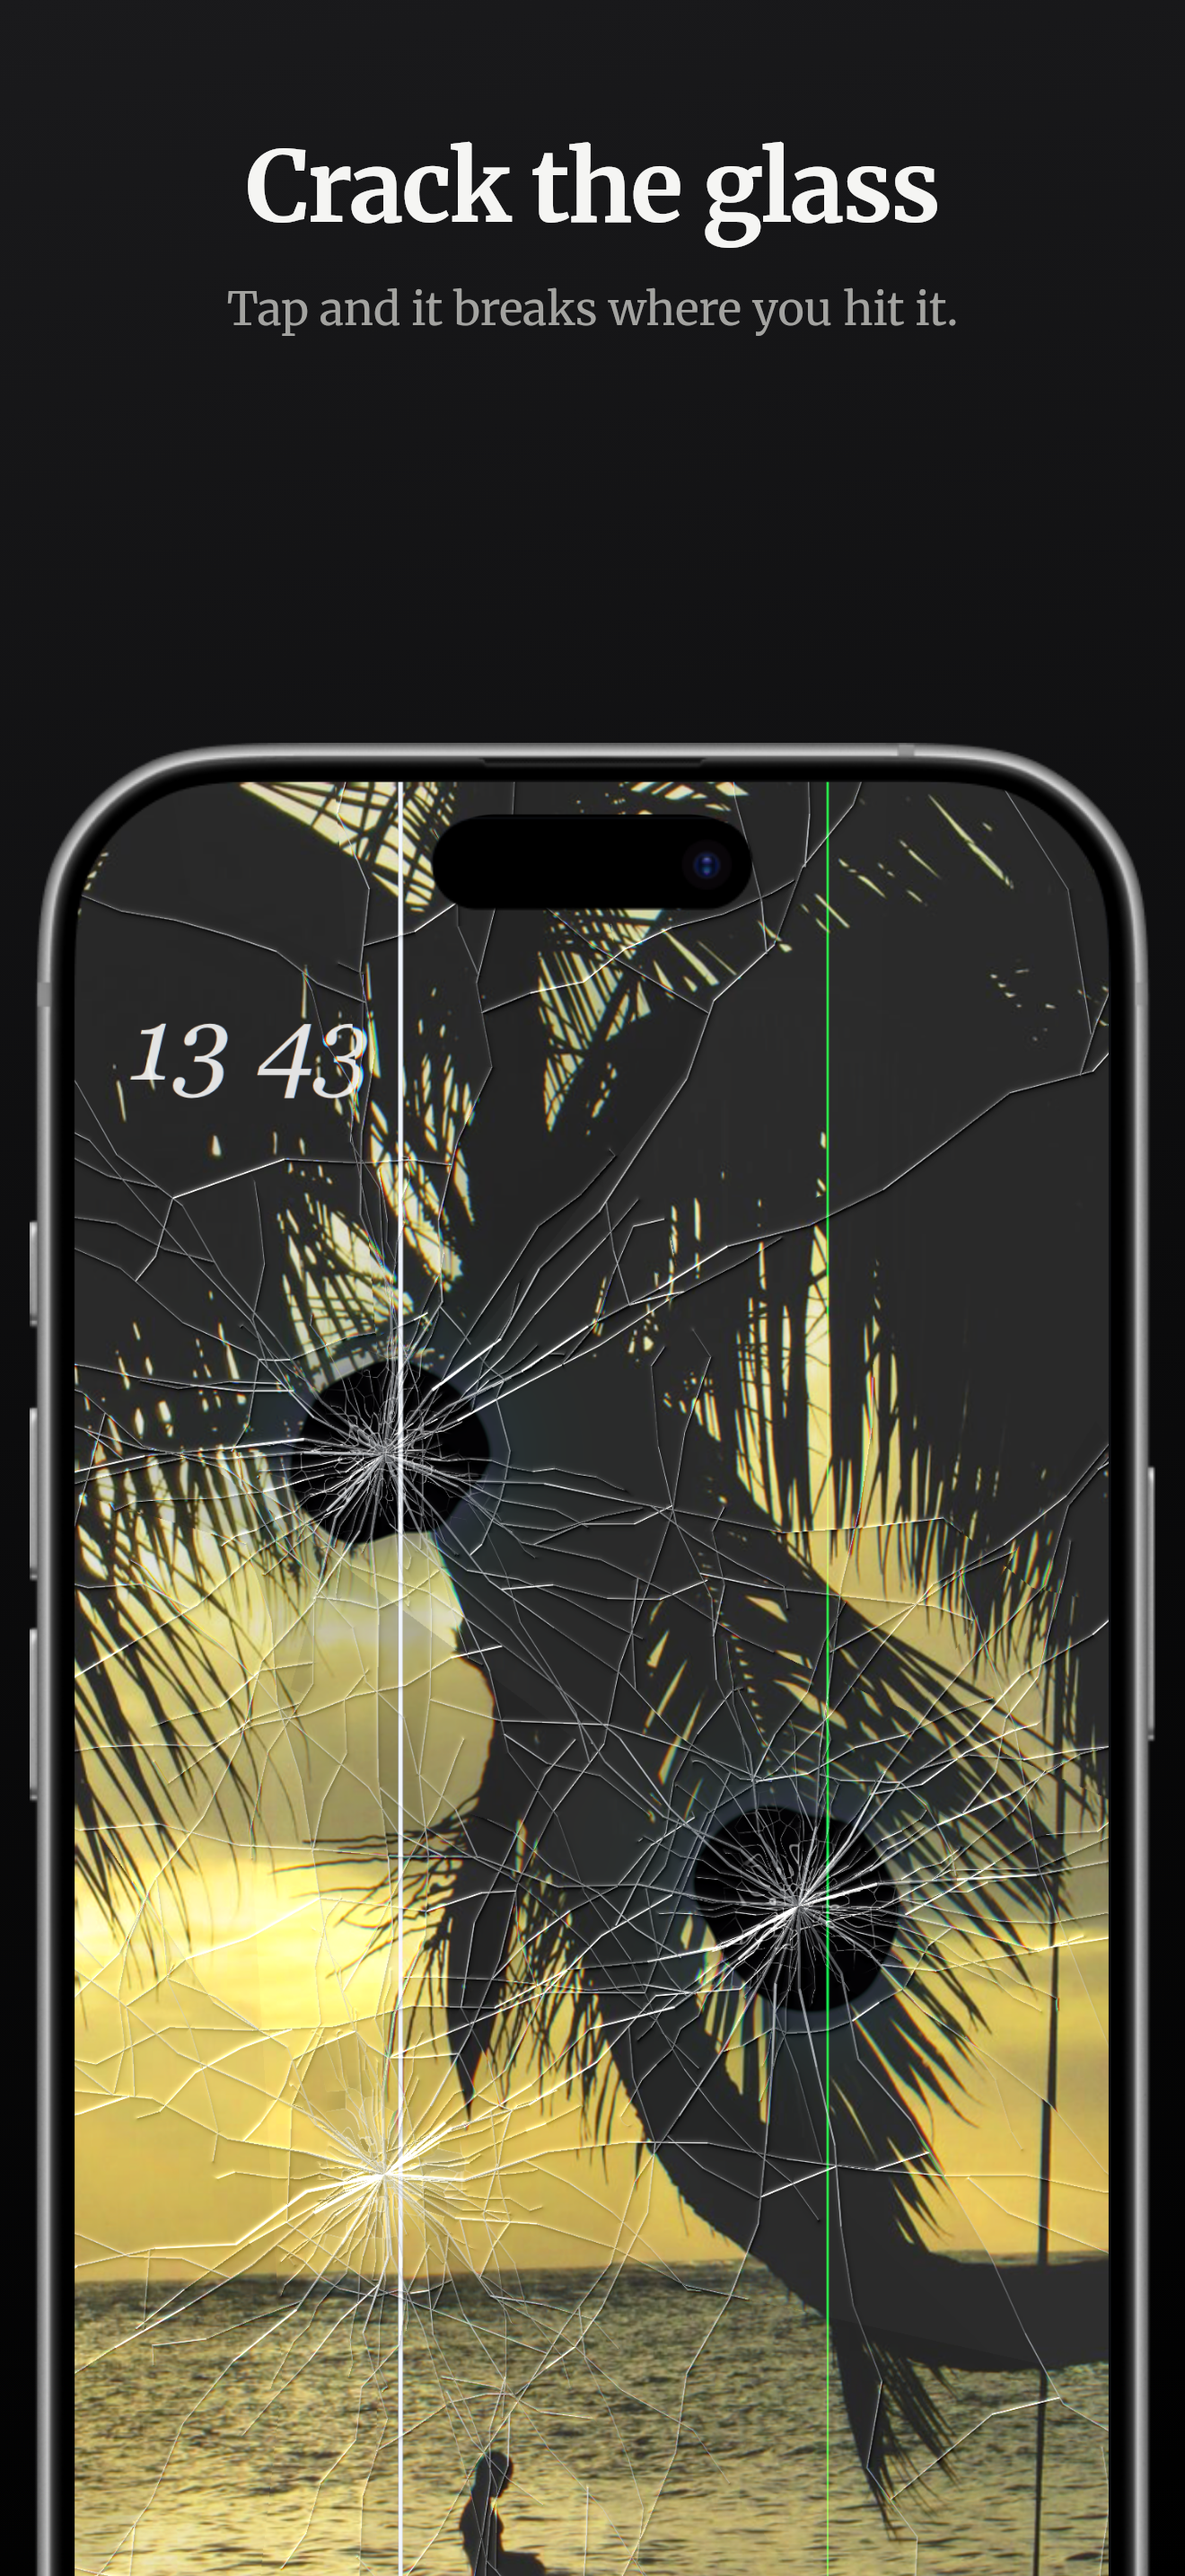
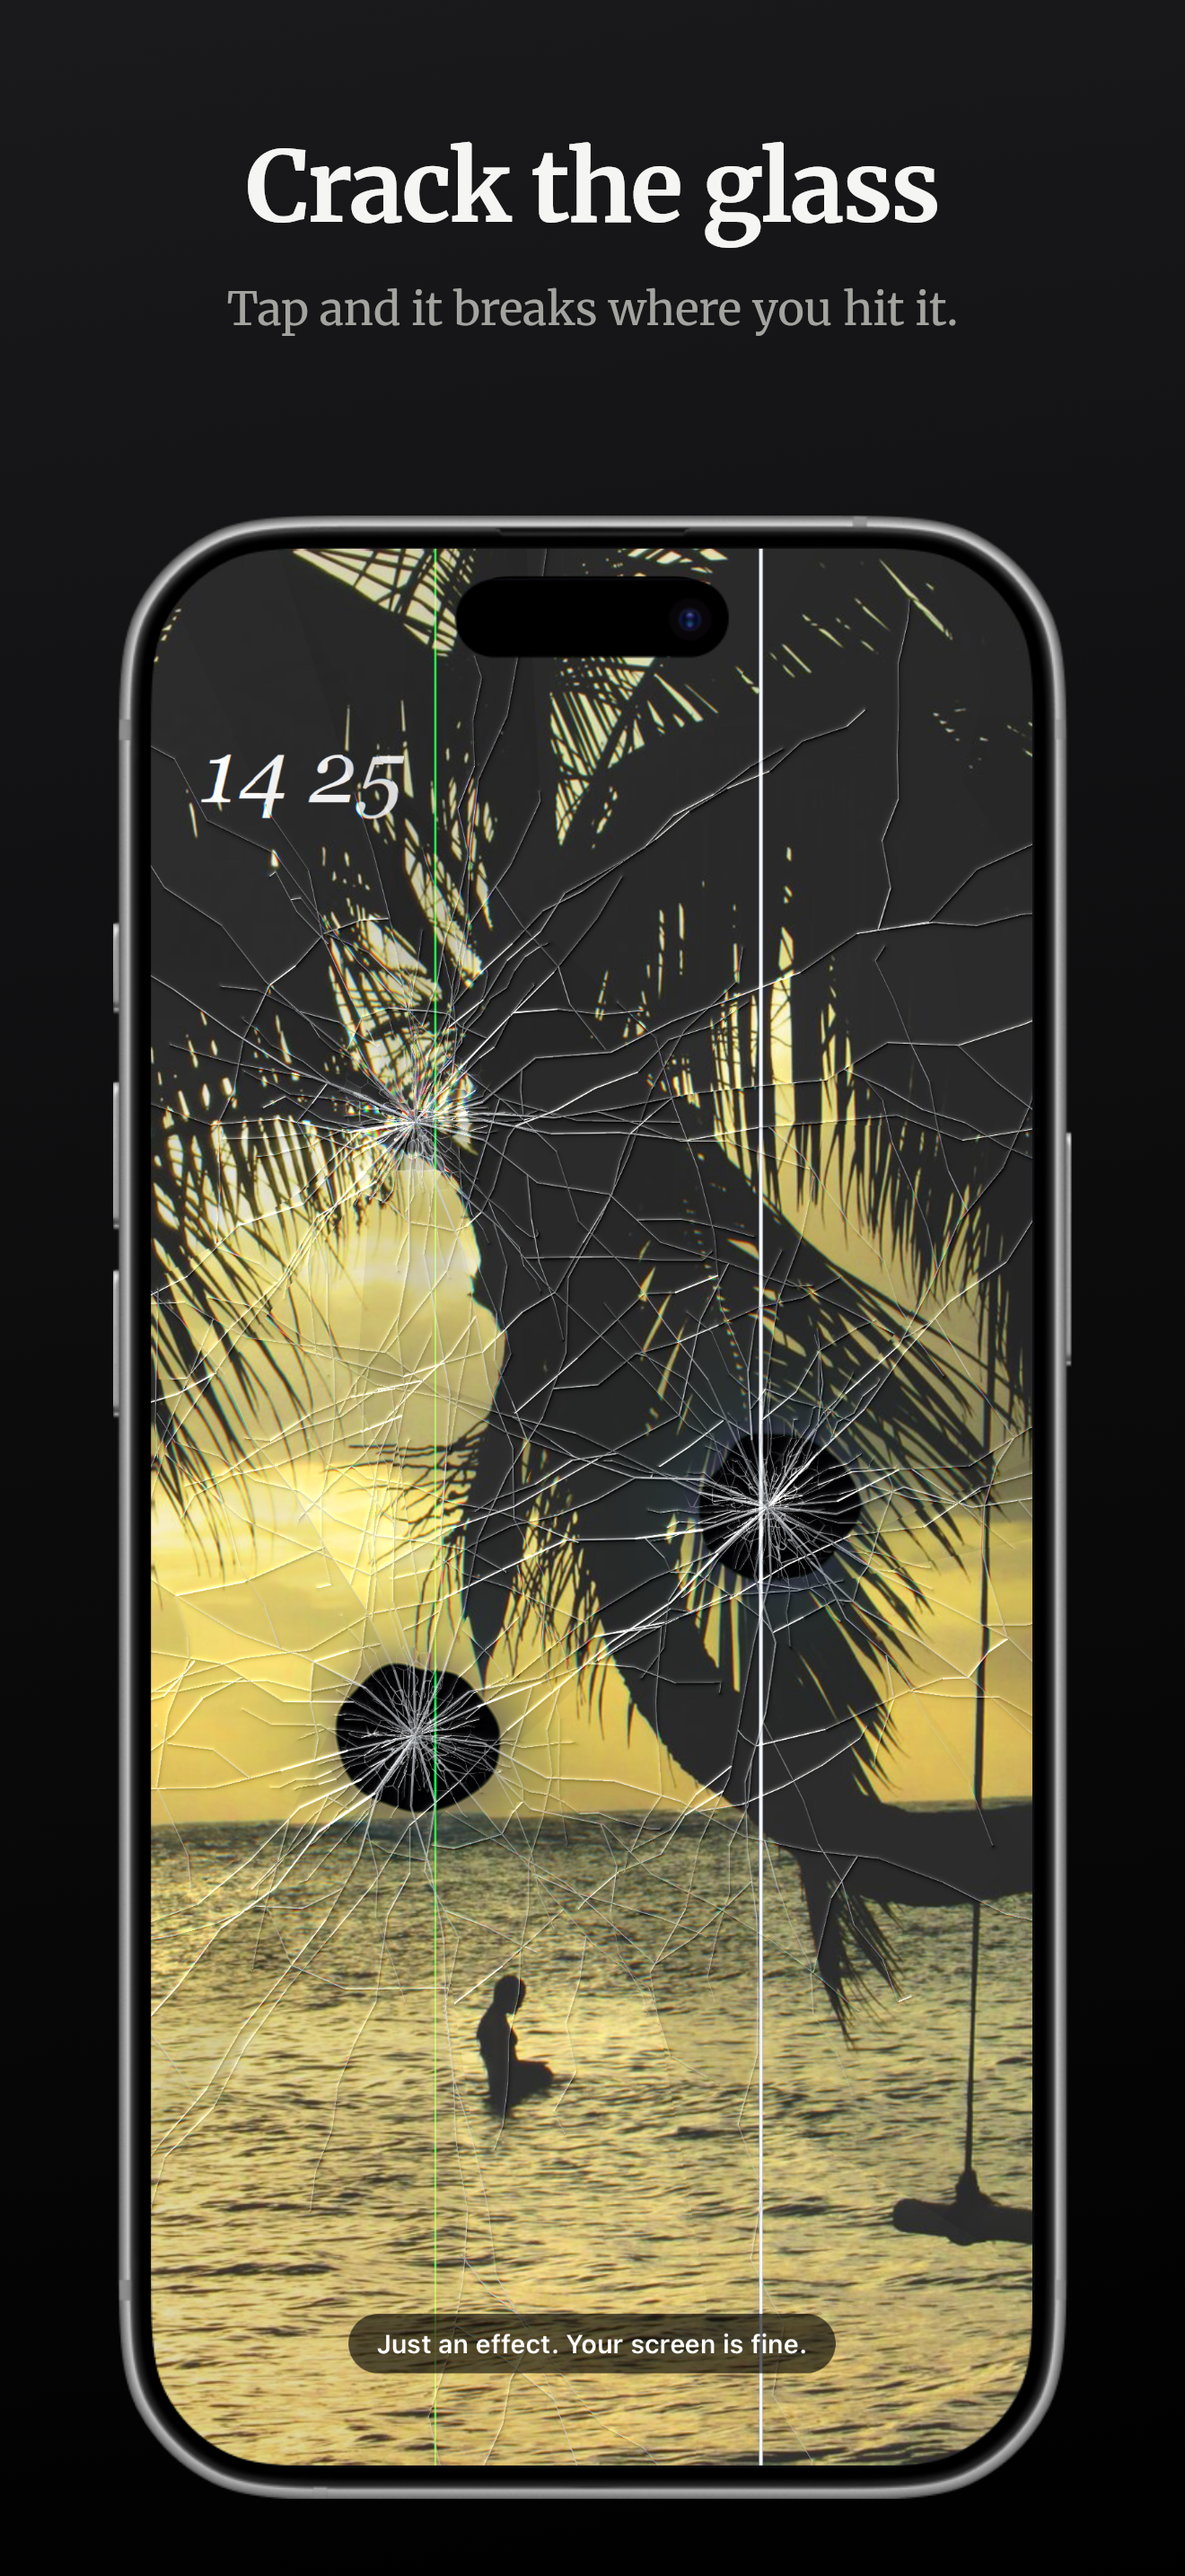
chore: retake store screenshots and keep Beer out of the preview

diff --git a/example/goldie/goldie.config.ts b/example/goldie/goldie.config.ts
@@ -62,7 +62,8 @@ export default {
       'cracked-screen',
       'store-03-cracked-screen',
       'Crack the glass',
-      'Tap and it breaks where you hit it.'
+      'Tap and it breaks where you hit it.',
+      'classic'
     ),
     screenshot(
       'bubble-wrap',
